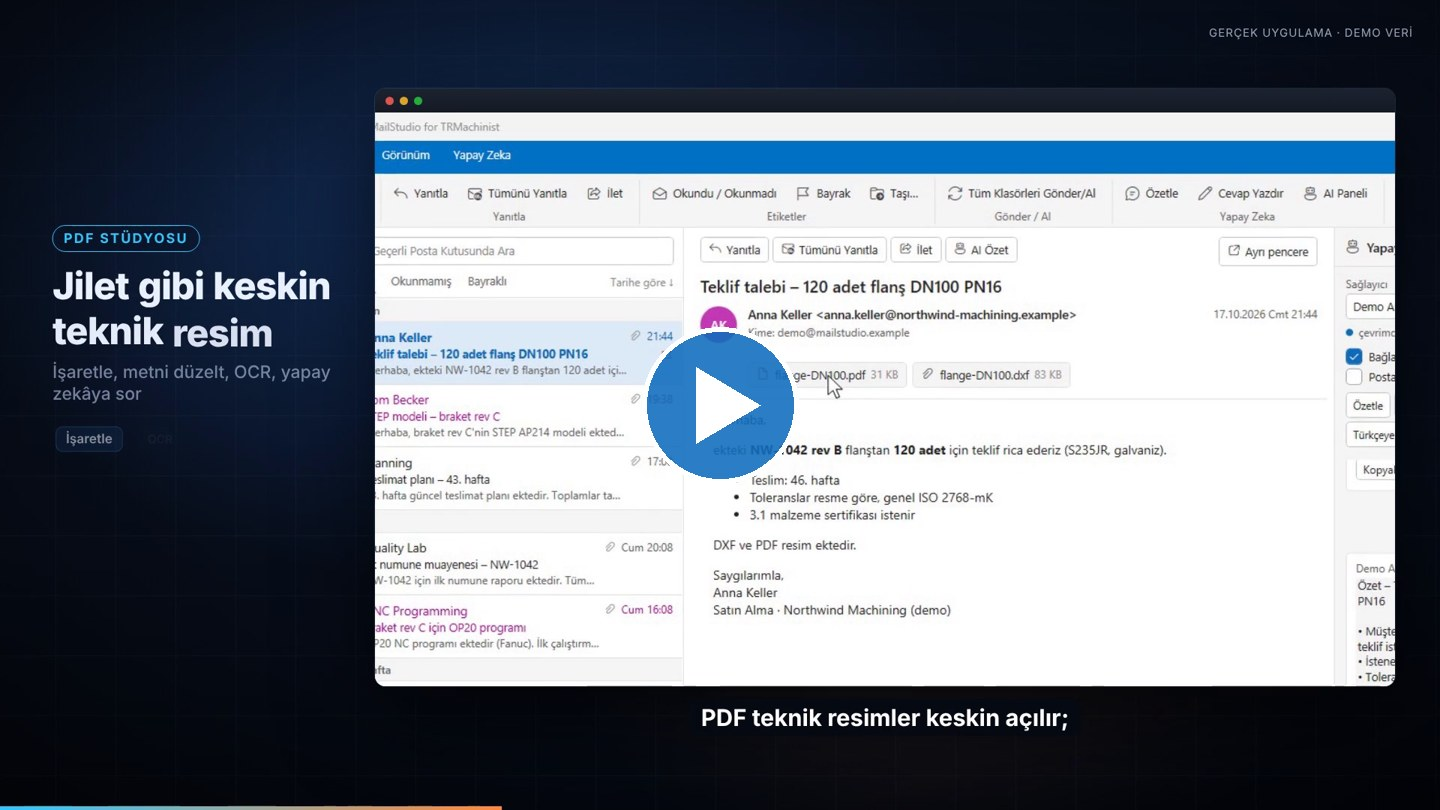
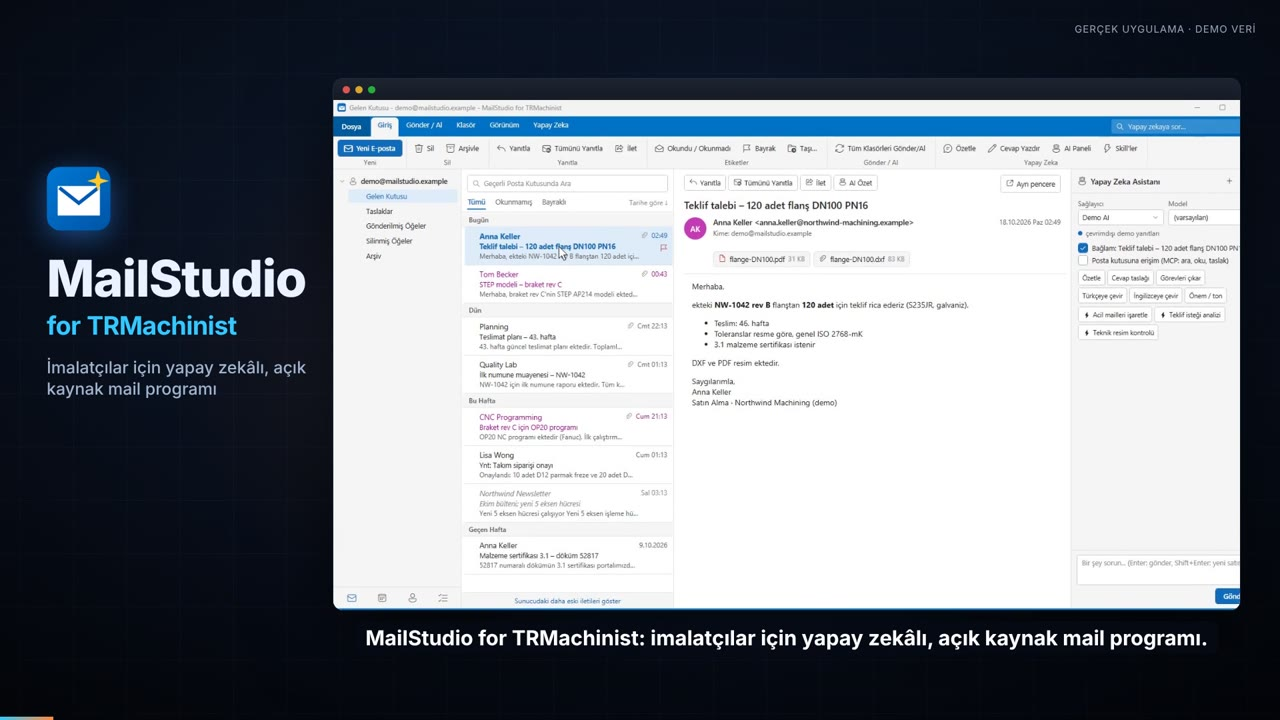
README: updated 60-second demo (1.6)

Changed region(s): [[0.0312, 0.0611, 0.9688, 0.9167], [0.0, 0.9778, 0.3438, 1.0], [0.9375, 0.5806, 0.9688, 0.6111]]

diff --git a/README.tr.md b/README.tr.md
@@ -16,9 +16,9 @@ STEP, DXF/DWG, PDF teknik resim, Office dosyaları ve CNC programlarını doğru
 
 [English](README.md) · **Türkçe**
 
-<a href="https://github.com/TRMachinist/MailStudio-AI-Email-Client/releases/download/v1.5.0/MailStudio_Demo_TR_1920x1080.mp4"><img src="docs/media/tr/demo-video.jpg" alt="60 saniyelik tanıtım videosu" width="100%"></a>
+<a href="https://github.com/TRMachinist/MailStudio-AI-Email-Client/releases/download/v1.6.0/MailStudio_Demo_TR_1920x1080.mp4"><img src="docs/media/tr/demo-video.jpg" alt="60 saniyelik tanıtım videosu" width="100%"></a>
 
-**▶ [60 saniyelik tanıtım videosunu izleyin](https://github.com/TRMachinist/MailStudio-AI-Email-Client/releases/download/v1.5.0/MailStudio_Demo_TR_1920x1080.mp4)** · [dikey](https://github.com/TRMachinist/MailStudio-AI-Email-Client/releases/download/v1.5.0/MailStudio_Demo_TR_1080x1920.mp4) · [English](https://github.com/TRMachinist/MailStudio-AI-Email-Client/releases/download/v1.5.0/MailStudio_Demo_EN_1920x1080.mp4)
+**▶ [60 saniyelik tanıtım videosunu izleyin](https://github.com/TRMachinist/MailStudio-AI-Email-Client/releases/download/v1.6.0/MailStudio_Demo_TR_1920x1080.mp4)** · [dikey](https://github.com/TRMachinist/MailStudio-AI-Email-Client/releases/download/v1.6.0/MailStudio_Demo_TR_1080x1920.mp4) · [English](https://github.com/TRMachinist/MailStudio-AI-Email-Client/releases/download/v1.6.0/MailStudio_Demo_EN_1920x1080.mp4)
 
 </div>
 

diff --git a/README.md b/README.md
@@ -18,9 +18,9 @@ Open STEP, DXF/DWG, PDF drawings, Office files and CNC programs right from your 
 
 **English** · [Türkçe](README.tr.md)
 
-<a href="https://github.com/TRMachinist/MailStudio-AI-Email-Client/releases/download/v1.5.0/MailStudio_Demo_EN_1920x1080.mp4"><img src="docs/media/demo-video.jpg" alt="Watch the 60-second demo" width="100%"></a>
+<a href="https://github.com/TRMachinist/MailStudio-AI-Email-Client/releases/download/v1.6.0/MailStudio_Demo_EN_1920x1080.mp4"><img src="docs/media/demo-video.jpg" alt="Watch the 60-second demo" width="100%"></a>
 
-**▶ [Watch the 60-second demo](https://github.com/TRMachinist/MailStudio-AI-Email-Client/releases/download/v1.5.0/MailStudio_Demo_EN_1920x1080.mp4)** · [vertical](https://github.com/TRMachinist/MailStudio-AI-Email-Client/releases/download/v1.5.0/MailStudio_Demo_EN_1080x1920.mp4) · [Türkçe](https://github.com/TRMachinist/MailStudio-AI-Email-Client/releases/download/v1.5.0/MailStudio_Demo_TR_1920x1080.mp4)
+**▶ [Watch the 60-second demo](https://github.com/TRMachinist/MailStudio-AI-Email-Client/releases/download/v1.6.0/MailStudio_Demo_EN_1920x1080.mp4)** · [vertical](https://github.com/TRMachinist/MailStudio-AI-Email-Client/releases/download/v1.6.0/MailStudio_Demo_EN_1080x1920.mp4) · [Türkçe](https://github.com/TRMachinist/MailStudio-AI-Email-Client/releases/download/v1.6.0/MailStudio_Demo_TR_1920x1080.mp4)
 
 </div>
 
